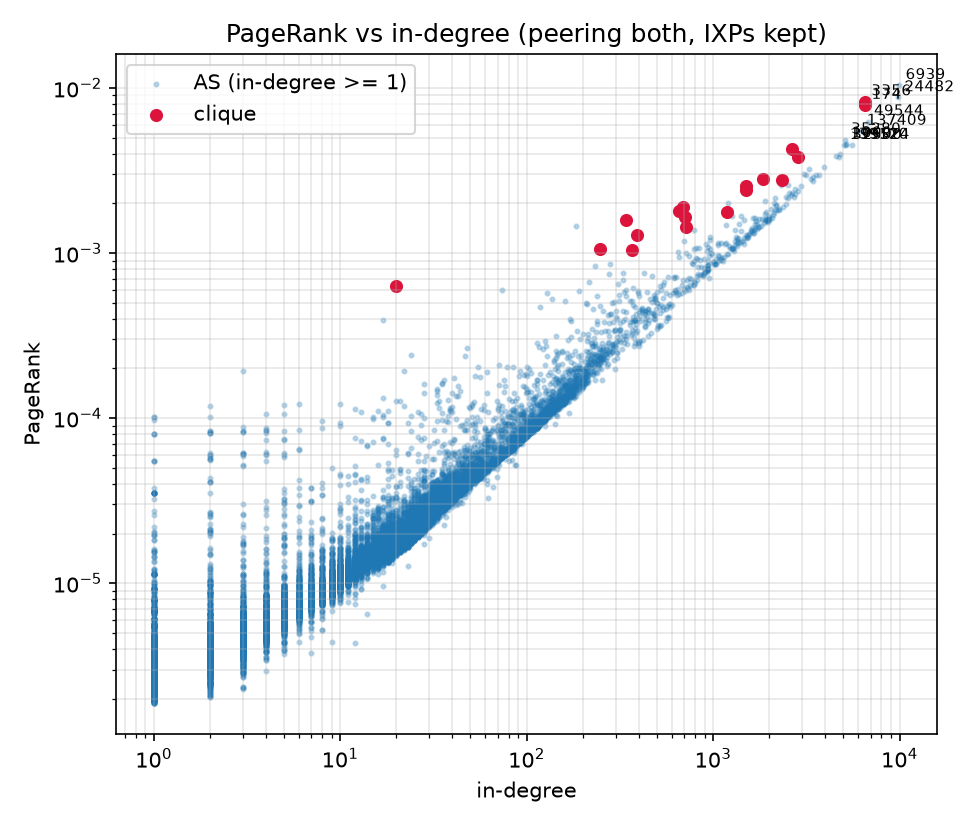
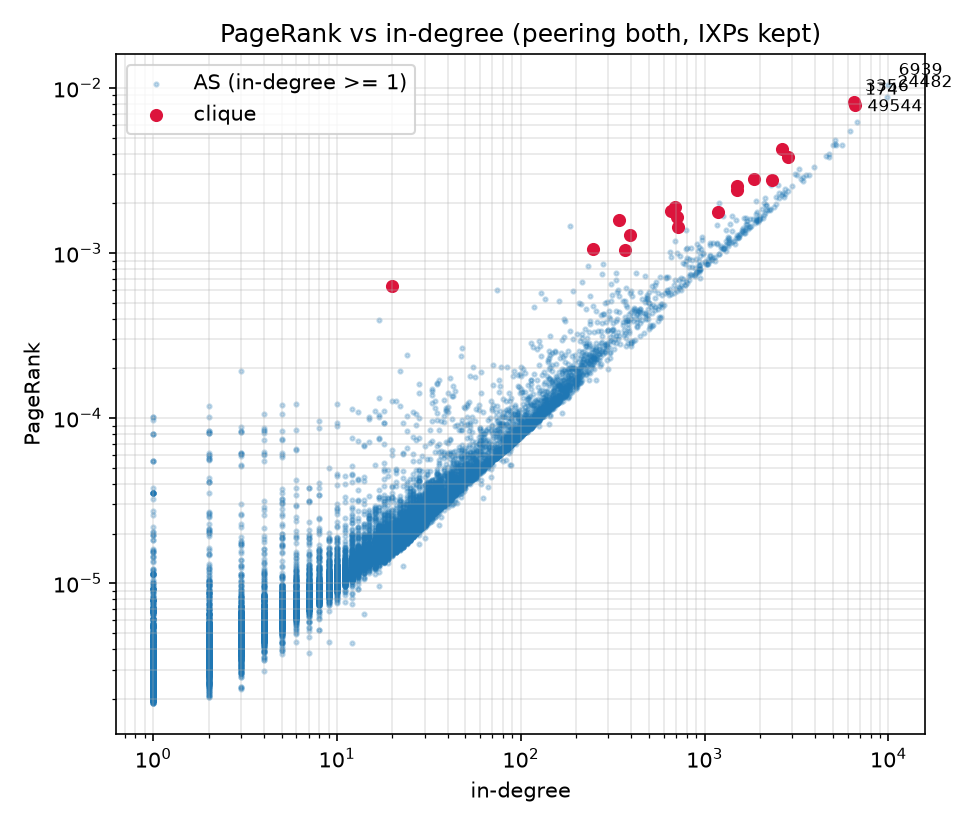
fix: explain the in-degree disagreements by vote dilution, not pointer importance

diff --git a/LAB_NOTEBOOK.md b/LAB_NOTEBOOK.md
@@ -1108,3 +1108,52 @@ structural facts rather than assertions.
 - Next: the extensions, in the order they are cut if the schedule tightens
   (customer cone last, then convergence, then local push). The convergence
   study already has its first datum: 88 power-iteration steps at alpha 0.85.
+
+**Correction, 2026-10-16.** Two claims in this entry and in notebook 02 were
+stated more strongly than the numbers the notebook itself prints support, and
+both are corrected in a follow-up commit.
+
+What was claimed. First, that the top of the ranking is held by "large transit
+providers". Second, that the ASes PageRank promotes over in-degree are "pointed
+at by few but important networks", with the demoted ones pointed at by
+"ordinary" networks -- an importance story, evidenced by a `in_nbr_top100_share`
+column (the share of a node's in-neighbours sitting in the PageRank top 100).
+
+What the numbers show. The `in_nbr_top100_share` column does not even separate
+the two directions the way the prose claimed: its median is 0.27 for the
+promoted rows and 0.37 for the demoted ones, so the demoted ASes have *more*
+top-100 in-neighbours, and two promoted rows have a share of 0. Recomputing
+three quantities over each AS's in-neighbours tells the real story. The mean
+importance of the pointing networks is about the *same* in both directions
+(`nbr_pr_rel`, mean neighbour PageRank over the graph mean: 129 for promoted,
+111 for demoted). What differs, by a factor of about twenty, is the
+contribution each in-link delivers (`contrib_per_link`, the mean of
+`pr[tail] / out_degree[tail]`: 1.9e-5 promoted, 8.9e-7 demoted), and the
+mechanism is the out-degree of the pointer (`nbr_outdeg_median`: 32 promoted,
+1,159 demoted). The ASes in-degree ranks higher collect a hundred-plus in-links
+from peering hubs with a thousand or more out-links each, so every vote is
+diluted a thousandfold; the ASes PageRank promotes get a few links from
+low-out-degree networks, so each link counts for much more. This is the
+`pr[tail] / out_degree[tail]` term of the update rule, not a difference in
+pointer importance -- a better explanation because it is the algorithm, not an
+interpretation laid over it. For the top of the ranking, the top-20 table says
+11 of the 20 have fewer than 100 customers but thousands of peers (AS24482: 59
+customers, 9,779 peers; AS1000: 3 and 5,138; AS32590: 0 and 5,159); the transit
+providers present are the four clique members AS3356, AS174, AS1299 and AS6461,
+which arrive on customers. The accurate statement is that under peering `both`
+the top is dominated by heavily peered networks, with the largest transit
+providers interleaved.
+
+Why it matters for the peering decision. 81.1% of the edges are peering edges
+(2 x 358,942 of 884,790 under peering `both`), so a network's peer count
+largely sets where it lands: many peers lift it through many in-links, while
+the matching large out-degree means each vote it casts is tiny. The ranking
+under peering `both` is therefore as much a measure of peering connectivity as
+of the transit hierarchy, which is the fact the peering modelling choice turns
+on -- and the reason the peering `none` sensitivity, which strips those 81% of
+edges, reorders the top so heavily.
+
+The notebook's section 6 (the three columns replace `in_nbr_top100_share`),
+section 10 (the interpretation draft) and section 1 (the peering-edge share is
+now printed and stated) were corrected to say this, and `02_disagreements.csv`
+was regenerated with the three new columns.
